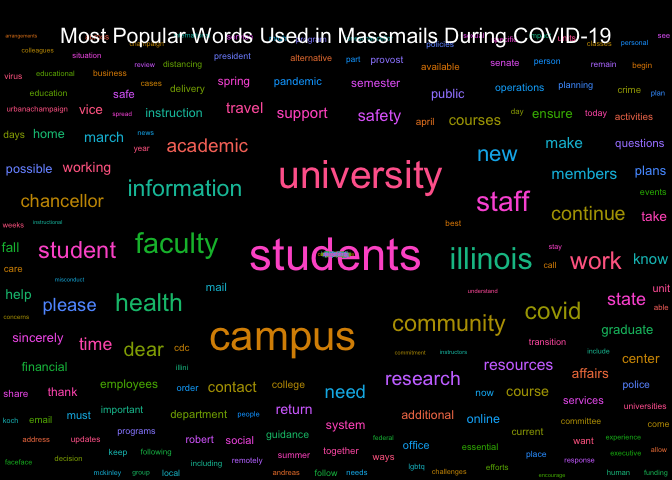
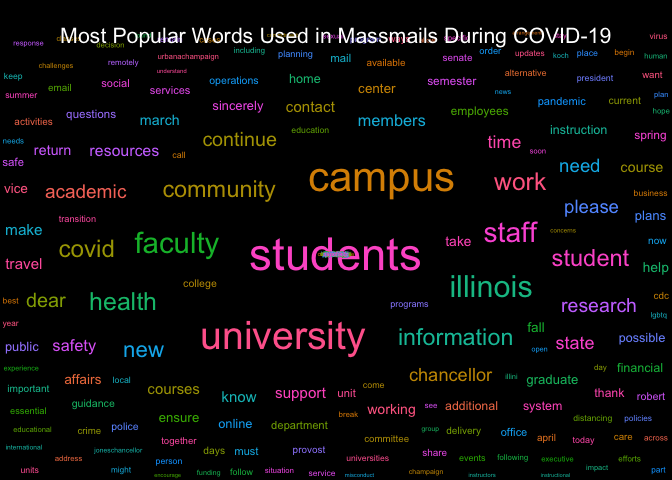
Re-build README.Rmd and Graphs

diff --git a/README.md b/README.md
@@ -17,7 +17,7 @@ The archive may be viewed here:
 
 <https://massmail.illinois.edu/massmailArchive>
 
-Data has **1144** observations and **7** variables:
+Data has **1145** observations and **7** variables:
 
   - `datetime`: Date and time when the email was sent in the form of
     `YYYY-MM-DD HMS` with either CDT or CST.
@@ -206,12 +206,12 @@ head(most_popular_words, 10) %>%
 | word        | freq |
 | :---------- | ---: |
 | students    |  357 |
-| university  |  314 |
+| university  |  316 |
 | campus      |  311 |
+| faculty     |  185 |
 | illinois    |  182 |
-| faculty     |  179 |
 | community   |  161 |
-| information |  153 |
+| information |  154 |
 | staff       |  144 |
 | health      |  137 |
 | student     |  136 |
